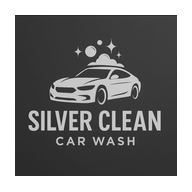
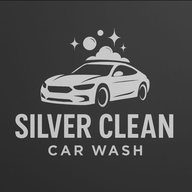
Make PWA branding persistent and full screen

diff --git a/app/templates/admin/base.html b/app/templates/admin/base.html
@@ -7,11 +7,16 @@
     <title>لوحة التحكم - {% block title %}{% endblock %}</title>
     <meta name="csrf-token" content="{{ csrf_token() }}">
     <meta name="vapid-public-key" content="{{ config.get('VAPID_PUBLIC_KEY', '') }}">
+    <meta name="apple-mobile-web-app-capable" content="yes">
+    <meta name="mobile-web-app-capable" content="yes">
+    <meta name="apple-mobile-web-app-status-bar-style" content="black-translucent">
+    <meta name="apple-mobile-web-app-title" content="{{ site_settings.site_name or 'Silver Clean' }}">
+    <meta name="theme-color" content="{{ site_settings.primary_color or '#303030' }}">
     <link rel="manifest" href="{{ url_for('main.manifest') }}">
     <link rel="apple-touch-icon" sizes="192x192"
         href="{{ url_for('static', filename='images/pwa-icon-192.png') }}?v={{ site_settings.updated_at.timestamp()|int if site_settings.updated_at else 1 }}">
     <!-- Favicon -->
-    <link rel="icon" type="image/png" href="{{ url_for('static', filename='images/logo.png') }}">
+    <link rel="icon" type="image/png" href="{{ site_settings.logo_path or url_for('static', filename='images/logo.png') }}?v={{ site_settings.updated_at.timestamp()|int if site_settings.updated_at else 1 }}">
     <!-- Tailwind CSS -->
     <script src="https://cdn.tailwindcss.com"></script>
     <script>

diff --git a/app/utils/pwa_icons.py b/app/utils/pwa_icons.py
@@ -3,7 +3,7 @@ import os
 from PIL import Image, ImageOps
 
 
-def refresh_pwa_icons(app, logo_path):
+def refresh_pwa_icons(app, logo_path, background_color='#303030'):
     """Build installable square icons from the currently configured site logo."""
     relative_logo = (logo_path or '/static/images/logo.png').split('?', 1)[0]
     if not relative_logo.startswith('/static/'):
@@ -19,9 +19,14 @@ def refresh_pwa_icons(app, logo_path):
     with Image.open(source_path) as source:
         logo = source.convert('RGBA')
         for size in (192, 512):
-            padding = max(12, round(size * 0.08))
-            contained = ImageOps.contain(logo, (size - padding * 2, size - padding * 2), Image.Resampling.LANCZOS)
-            canvas = Image.new('RGBA', (size, size), (255, 255, 255, 0))
-            canvas.alpha_composite(contained, ((size - contained.width) // 2, (size - contained.height) // 2))
-            canvas.save(os.path.join(output_dir, f'pwa-icon-{size}.png'), 'PNG', optimize=True)
+            # Full-bleed square icons avoid the white frame iOS adds around
+            # transparent/padded touch icons. Non-square logos are contained on
+            # the site's own background color instead of white.
+            if abs(logo.width - logo.height) <= max(2, round(max(logo.size) * 0.03)):
+                canvas = ImageOps.fit(logo, (size, size), Image.Resampling.LANCZOS)
+            else:
+                canvas = Image.new('RGBA', (size, size), background_color)
+                contained = ImageOps.contain(logo, (size, size), Image.Resampling.LANCZOS)
+                canvas.alpha_composite(contained, ((size - contained.width) // 2, (size - contained.height) // 2))
+            canvas.convert('RGB').save(os.path.join(output_dir, f'pwa-icon-{size}.png'), 'PNG', optimize=True)
     return True

diff --git a/app/admin/routes.py b/app/admin/routes.py
@@ -4489,20 +4489,21 @@ def settings():
             from flask import current_app
             
             file = form.logo.data
-            filename = secure_filename(file.filename)
-            # Ensure filename is unique or standard
-            filename = 'logo.png' # Force standard name for simplicity or keep original
-            
-            # Save to static/uploads or static/images
-            upload_dir = os.path.join(current_app.root_path, 'static', 'images')
+            # Store uploaded branding outside tracked project assets. A unique
+            # name prevents git deployments and browser caches from restoring
+            # an older logo.
+            filename = f"site-logo-{int(datetime.utcnow().timestamp())}-{secrets.token_hex(4)}.png"
+            upload_dir = os.path.join(current_app.root_path, 'static', 'uploads')
             if not os.path.exists(upload_dir):
                 os.makedirs(upload_dir)
                 
             file_path = os.path.join(upload_dir, filename)
-            file.save(file_path)
-            settings.logo_path = f'/static/images/{filename}'
+            from PIL import Image
+            with Image.open(file.stream) as uploaded_logo:
+                uploaded_logo.convert('RGBA').save(file_path, 'PNG', optimize=True)
+            settings.logo_path = f'/static/uploads/{filename}'
             from app.utils.pwa_icons import refresh_pwa_icons
-            refresh_pwa_icons(current_app, settings.logo_path)
+            refresh_pwa_icons(current_app, settings.logo_path, settings.primary_color or '#303030')
             
         db.session.commit()
         flash('تم تحديث إعدادات الموقع بنجاح', 'success')

diff --git a/app/main/routes.py b/app/main/routes.py
@@ -33,22 +33,23 @@ def manifest():
     settings = SiteSettings.get_settings()
     from flask import current_app
     from app.utils.pwa_icons import refresh_pwa_icons
-    refresh_pwa_icons(current_app, settings.logo_path)
+    refresh_pwa_icons(current_app, settings.logo_path, settings.primary_color or '#303030')
     icon_version = int(settings.updated_at.timestamp()) if settings.updated_at else 1
     
     manifest_data = {
-        "id": "/customer/",
+        "id": "/",
         "name": settings.site_name or "Silver Clean Car Wash",
         "short_name": settings.site_name or "Silver Clean",
         "description": "Silver Clean - خدمة غسيل سيارات متنقلة",
-        "start_url": "/customer/",
+        "start_url": "/",
         "scope": "/",
         "display": "standalone",
-        "display_override": ["window-controls-overlay", "standalone", "minimal-ui"],
+        "display_override": ["standalone"],
         "orientation": "portrait",
         "background_color": settings.primary_color or "#1F1F1F",
         "theme_color": settings.accent_color or "#10B981",
         "categories": ["lifestyle", "business"],
+        "launch_handler": {"client_mode": "navigate-existing"},
         "icons": [
             {
                 "src": f"/static/images/pwa-icon-192.png?v={icon_version}",
@@ -68,7 +69,7 @@ def manifest():
     
     response = jsonify(manifest_data)
     response.headers['Content-Type'] = 'application/manifest+json'
-    response.headers['Cache-Control'] = 'public, max-age=3600'
+    response.headers['Cache-Control'] = 'no-cache, no-store, must-revalidate'
     return response
 
 @bp.route('/.well-known/appspecific/com.chrome.devtools.json')

diff --git a/tests/test_pwa.py b/tests/test_pwa.py
@@ -12,16 +12,21 @@ def test_manifest_has_stable_installable_icons(app):
 
     assert response.status_code == 200
     assert response.content_type == 'application/manifest+json'
-    assert manifest['id'] == '/customer/'
-    assert manifest['start_url'] == '/customer/'
+    assert manifest['id'] == '/'
+    assert manifest['start_url'] == '/'
     assert manifest['display'] == 'standalone'
     assert {icon['sizes'] for icon in manifest['icons']} == {'192x192', '512x512'}
+    assert all('?v=' in icon['src'] for icon in manifest['icons'])
 
 
 def test_pwa_icon_files_match_manifest_dimensions():
     images = Path('app/static/images')
-    assert Image.open(images / 'pwa-icon-192.png').size == (192, 192)
-    assert Image.open(images / 'pwa-icon-512.png').size == (512, 512)
+    icon_192 = Image.open(images / 'pwa-icon-192.png')
+    icon_512 = Image.open(images / 'pwa-icon-512.png')
+    assert icon_192.size == (192, 192)
+    assert icon_512.size == (512, 512)
+    assert icon_192.mode == 'RGB'
+    assert icon_192.getpixel((0, 0)) != (255, 255, 255)
 
 
 def test_service_worker_is_available_at_root_scope(app):
